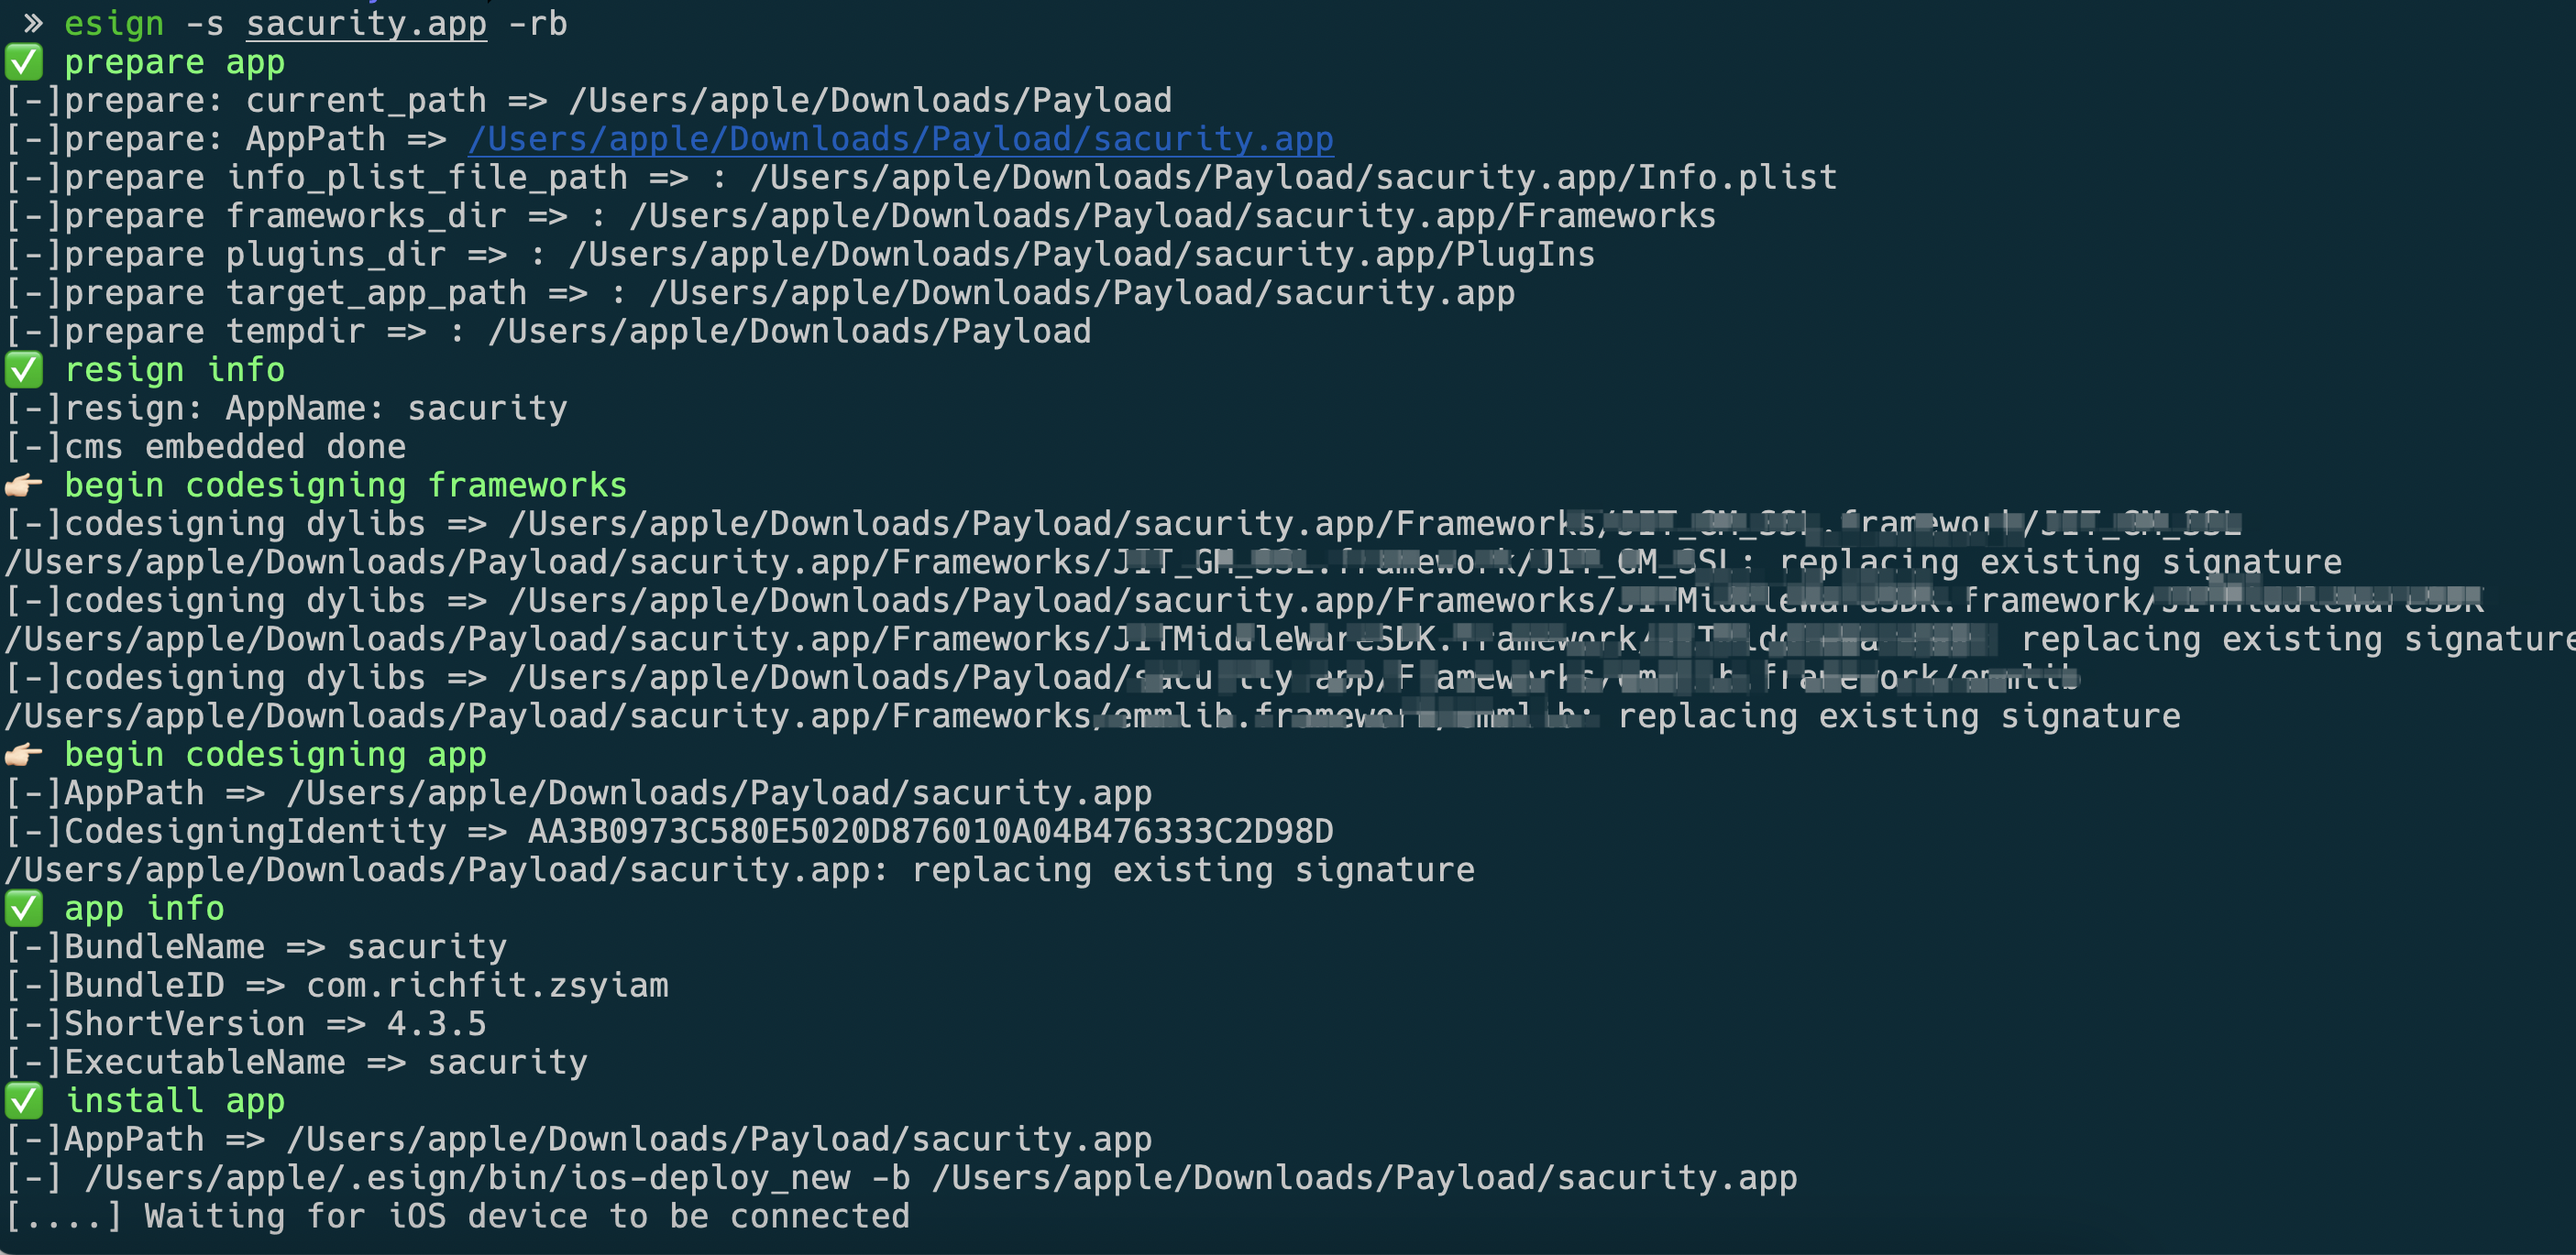
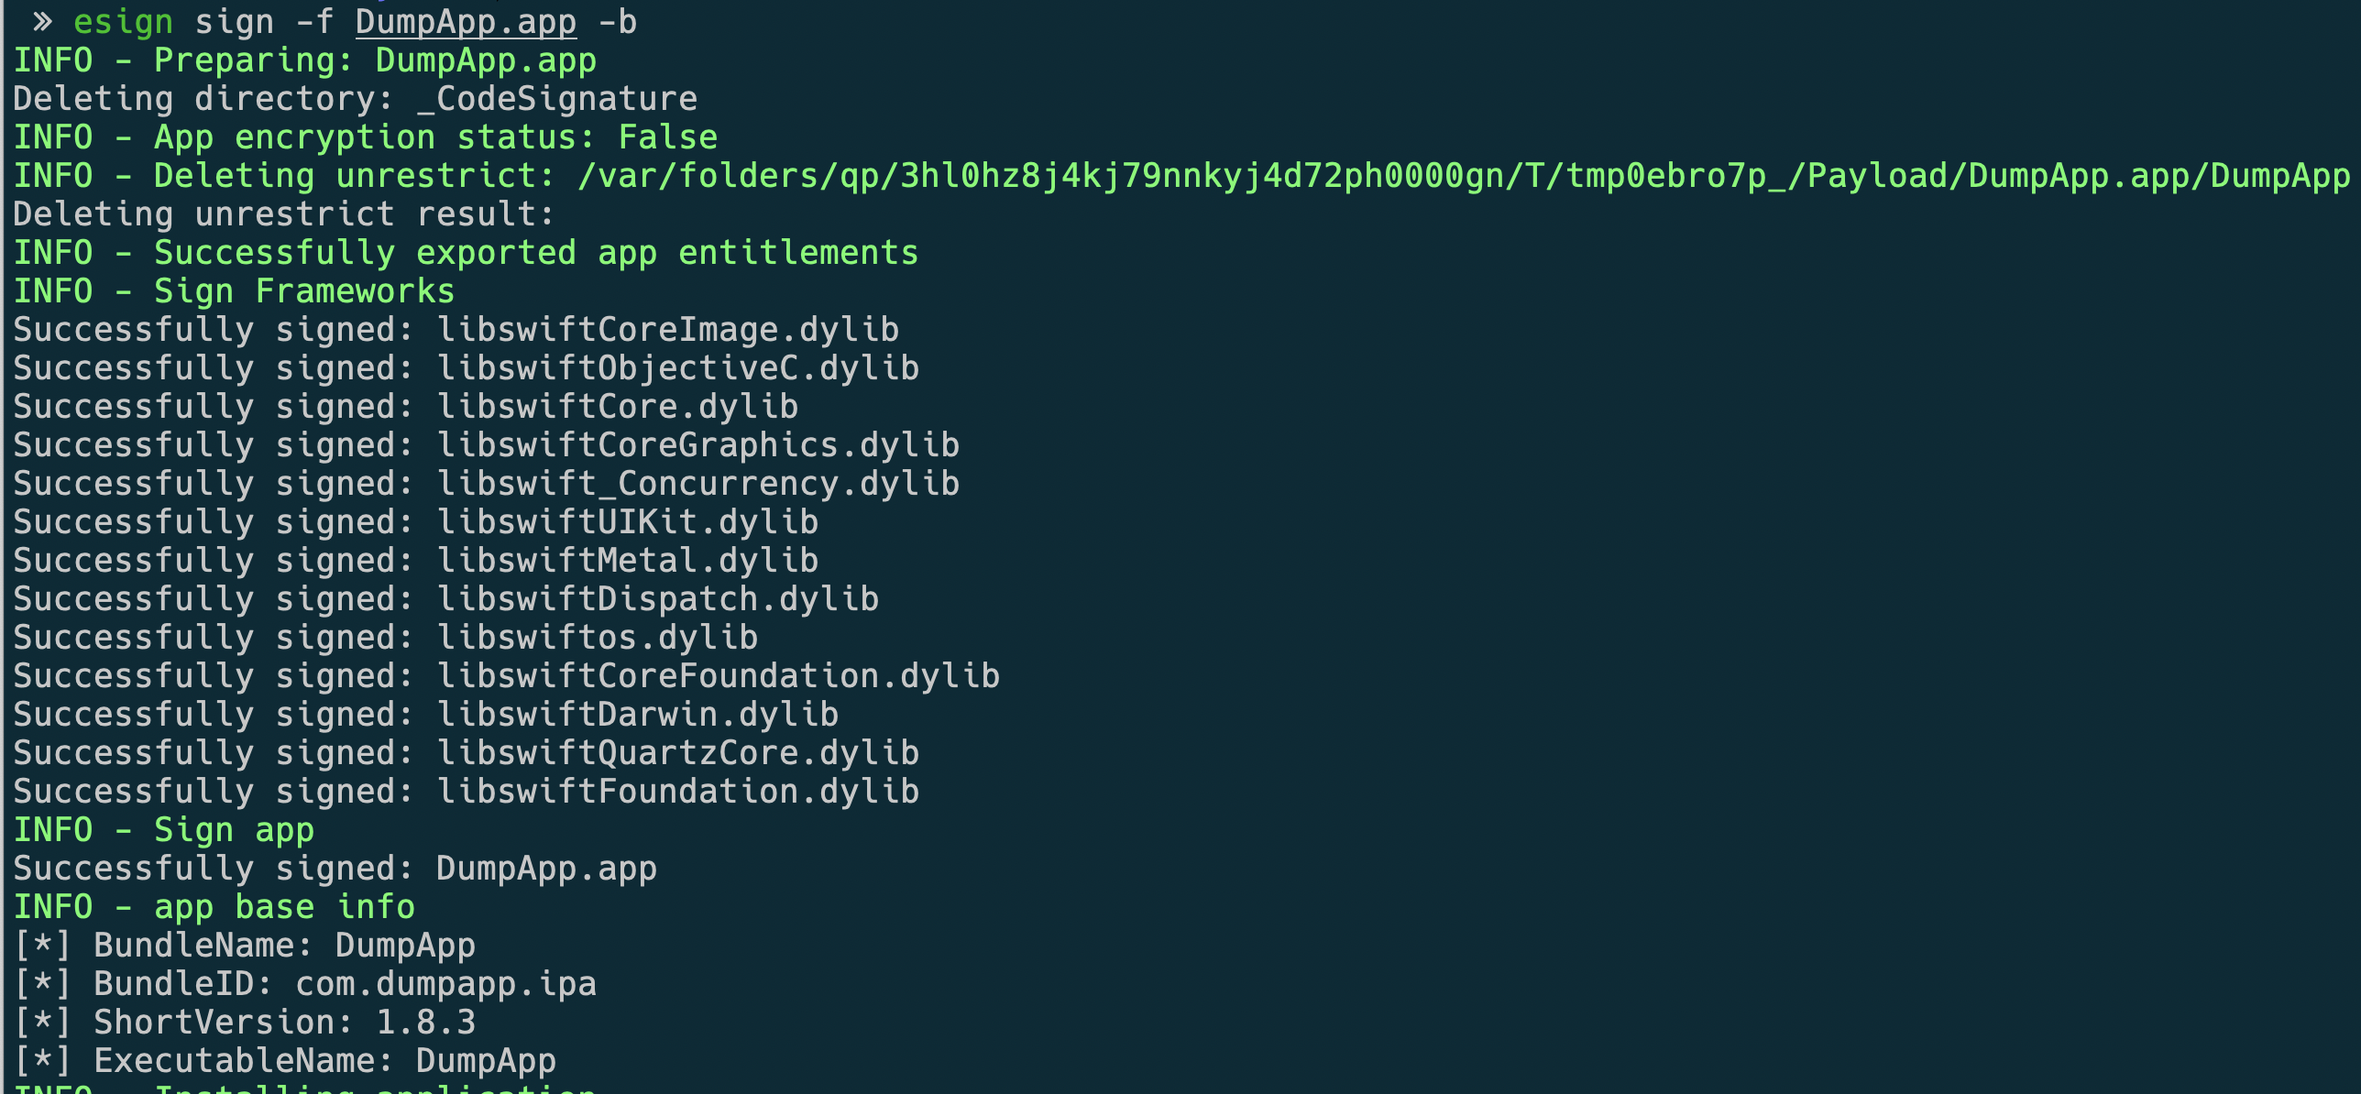
优化签名的日志打印

Changed region(s): [[0.0, 0.0, 1.0, 1.0]]

diff --git a/esign/encryption_checker.py b/esign/encryption_checker.py
@@ -57,9 +57,8 @@ class EncryptionChecker:
         
     async def remove_unrestrict(self, execu_table_path: str):
         self.logger.info(f"Deleting unrestrict: {execu_table_path}")
-        otool_path = self.config.get_tool_path('otool')
+        otool_path = self.config.get_tool_path('optool')
         cmd = [otool_path, 'unrestrict', '-t', execu_table_path]
-        
         try:
             process = await asyncio.create_subprocess_exec(
                 *cmd,
@@ -67,7 +66,6 @@ class EncryptionChecker:
                 stderr=asyncio.subprocess.PIPE
             )
             stdout, stderr = await process.communicate()
-            if process.returncode != 0:
-                raise EncryptionCheckError(f"Deleting unrestrict fail: {stderr.decode()}")
+            self.logger.default(f"Deleting unrestrict result: {stderr.decode()}")
         except Exception as e:
             raise EncryptionCheckError(f"An error occurred while deleting unrestrict: {str(e)}")

diff --git a/esign/ipa_packager.py b/esign/ipa_packager.py
@@ -10,9 +10,14 @@ class IPAPackager:
         self.config = config
         self.logger = Logger()
 
-    async def package(self, payload_path: str, output_path: str):
+    async def package(self, executable_name: str, payload_path: str, output_path: str):
         self.logger.info("Starting packaging process")
         try:
+            output_path = os.path.abspath(output_path)
+            if not output_path.endswith('.ipa'):
+                output_path = os.path.join(output_path, executable_name + "_signed.ipa")
+            if os.path.exists(output_path):
+                os.remove(output_path)
             await self._create_ipa(payload_path, output_path)
             self.logger.default(f"IPA successfully packaged: {output_path}")
         except FileNotFoundError:

diff --git a/setup.py b/setup.py
@@ -15,7 +15,6 @@ class InstallCommand(Command):
 
     def run(self):
         import getpass, os, shutil
-
         user_name = getpass.getuser()
         esign_dir_path = "/Users/" + user_name + "/.esign/"
         if not os.path.exists(esign_dir_path):
@@ -24,12 +23,8 @@ class InstallCommand(Command):
             if not os.path.exists(provisions_path):
                 os.makedirs(provisions_path)
         shutil.copytree(
-            os.path.join(getcwd(), "config"), os.path.join(esign_dir_path, "config")
-        )
-        shutil.copytree(
             os.path.join(getcwd(), "bin"), os.path.join(esign_dir_path, "bin")
         )
-
 
 
 setup(

diff --git a/esign/app_signer.py b/esign/app_signer.py
@@ -62,7 +62,7 @@ class AppSigner:
             await self.code_signer.sign_all(prepared_app_path, identity, entitlements_path)
             
             if options.get('output_path'):
-                await self.ipa_packager.package(payload_path, options['output_path'])
+                await self.ipa_packager.package(executable_name, payload_path, options['output_path'])
 
             if options.get('print_info'):
                 app_info_printer.print_info_plist_content()

diff --git a/esign/econfig.py b/esign/econfig.py
@@ -44,7 +44,7 @@ class ConfigHandler:
                 'jtool2': os.path.expanduser("~/.esign/bin/jtool2"),
                 'restore_symbol': os.path.expanduser("~/.esign/bin/restore-symbol"),
                 'ideviceinstaller': os.path.expanduser("~/.esign/bin/ideviceinstaller"),
-                'unsign': os.path.expanduser("~/.esign/bin/unsign"),
+                'unsign': os.path.expanduser("~/.esign/bin/unsign")
             }
         }
 

diff --git a/esign/app_installer.py b/esign/app_installer.py
@@ -31,7 +31,7 @@ class AppInstaller:
                 stderr=asyncio.subprocess.PIPE
             )
             async for line in process.stdout:
-                self.logger.info(line.decode().strip())
+                self.logger.default(line.decode().strip())
             async for line in process.stderr:
                 raise AppInstallationError(f"Installation failed: {line.decode().strip()}")
             await process.wait()

diff --git a/esign/elogger.py b/esign/elogger.py
@@ -34,7 +34,7 @@ class Logger:
         # 控制台处理器
         console_handler = logging.StreamHandler()
         console_handler.setLevel(logging.INFO)
-        console_formatter = ColorFormatter('%(asctime)s - %(levelname)s - %(message)s')
+        console_formatter = ColorFormatter('%(levelname)s - %(message)s')
         console_handler.setFormatter(console_formatter)
         self.logger.addHandler(console_handler)
 

diff --git a/README.md b/README.md
@@ -5,17 +5,15 @@
 ![image-20240109170523351](README.assets/image-20240109170523351.png)
 
 > 重签名 iOS 的 IPA 文件的命令行工具
-`IPA文件需要是咂壳后的包`
+> `IPA文件需要是咂壳后的包`
 
 ### 准备
 
-- macOS `Linux coming soon`
+- macOS
 - Xcode
 - Python 3.8+
 
 ### 安装
-
-- 本地安装 `推荐`
 
 ```python
 git clone https://github.com/DargonLee/EasySignIpa
@@ -24,80 +22,79 @@ python setup.py install_command
 pip install .
 ```
 
-- pip 安装 `coming soon`
-
-```python
-pip install -U esign
-```
-
 ### 示范用例
 
-- 配置重签证书和描述文件
+##### 更新描述文件
 
-```python
-esign -c
+```py
+esign update -m debug /Users/xxx/Desktop/xxxx.mobileprovision
+esign update -m release /Users/xxx/Desktop/xxxx.mobileprovision
 ```
-输入证书identity值和描述文件的路径
 
-`注意⚠：证书和描述文件是要匹配的`
+##### 更新证书identity值
 
-- 重签名并输出重签后的文件
+```py
+esign update -m debug 40900B2051FAAB6FED2BCB35C6A42A7C7CE821C1
+esign update -m release 40900B2051FAAB6FED2BCB35C6A42A7C7CE821C2
+```
+
+
+##### 重签名并输出重签后的文件
 
 ```python
 # ipa 文件输出
-esign -s /Users/xxx/Desktop/xxx.ipa -o /Users/xxx/Desktop/
+esign sign -f /Users/xxx/Desktop/xxx.ipa -o /Users/xxx/Desktop/1.ipa
 # app 文件输出
-esign -s /Users/xxx/Desktop/xxx.app -o /Users/xxx/Desktop/
+esign sign -f /Users/xxx/Desktop/xxx.app -o /Users/xxx/Desktop/
 ```
 
-- 重签名并输出重签后的文件，同时自动安装到手机
+##### 重签名并输出重签后的文件，同时自动安装到手机
 
-`注意⚠：手机要和电脑通过 USB 连接正常`
+> 注意⚠：手机要和电脑通过 USB 连接正常
 
-```python   
+```python
 # ipa 文件输出 并安装
-esign -s /Users/xxx/Desktop/xxx.ipa -o /Users/xxx/Desktop/ -b
+esign sign -f /Users/xxx/Desktop/xxx.ipa -o /Users/xxx/Desktop/ -b
 # app 文件输出 并安装
-esign -s /Users/xxx/Desktop/xxx.app -o /Users/xxx/Desktop/ -b
+esign sign -f /Users/xxx/Desktop/xxx.app -o /Users/xxx/Desktop/ -b
 ```
 
-- 重签名后自动安装到手机
+##### 重签名后自动安装到手机
 
-`注意⚠：手机要和电脑通过 USB 连接正常`
+> 注意⚠：手机要和电脑通过 USB 连接正常
+
 ```python
 # ipa 文件安装
-esign -s /Users/xxx/Desktop/xxx.ipa -b
+esign sign -f /Users/xxx/Desktop/xxx.ipa -b
 # app 文件安装
-esign -s /Users/xxx/Desktop/xxx.app -b
+esign sign -f /Users/xxx/Desktop/xxx.app -b
 ```
 
+##### 重签名后先卸载手机上已经安装同一包名的 App 然后再安装
 
-- 重签名后先卸载手机上已经安装同一包名的 App 然后再安装
+> 注意⚠：手机要和电脑通过 USB 连接正常
 
-`注意⚠：手机要和电脑通过 USB 连接正常`
 ```python
 # ipa 文件重新安装
-esign -s /Users/xxx/Desktop/xxx.ipa -rb
+esign sign -f /Users/xxx/Desktop/xxx.ipa -rb
 # app 文件重新安装
-esign -s /Users/xxx/Desktop/xxx.app -rb
+esign sign -f /Users/xxx/Desktop/xxx.app -rb
 ```
 
-- 重签名 App 并注入动态库
+##### 重签名 App 并注入动态库
 
 ```python
 # 动态库
-esign -s /Users/xxx/Desktop/xxx.ipa -l /Users/xxx/Desktop/xxx.dylib
-# 动态 framework
-esign -s /Users/xxx/Desktop/xxx.ipa -l /Users/xxx/Desktop/xxx.framework
+esign sign -f /Users/xxx/Desktop/xxx.ipa -l /Users/xxx/Desktop/xxx.dylib -l /Users/xxx/Desktop/yyy.framework
 ```
 
-- 重签名 App 并注入动态库并安装到手机
+##### 重签名 App 并注入动态库并安装到手机
 
 ```python
 # 安装
-esign -s /Users/xxx/Desktop/xxx.ipa -l /Users/xxx/Desktop/xxx.dylib -b
+esign sign -f /Users/xxx/Desktop/xxx.ipa -l /Users/xxx/Desktop/xxx.dylib -b
 # 重新安装
-esign -s /Users/xxx/Desktop/xxx.ipa -l /Users/xxx/Desktop/xxx.framework -rb
+esign sign -f /Users/xxx/Desktop/xxx.ipa -l /Users/xxx/Desktop/xxx.framework -rb
 ```
 
 ### Pycharm Debug
